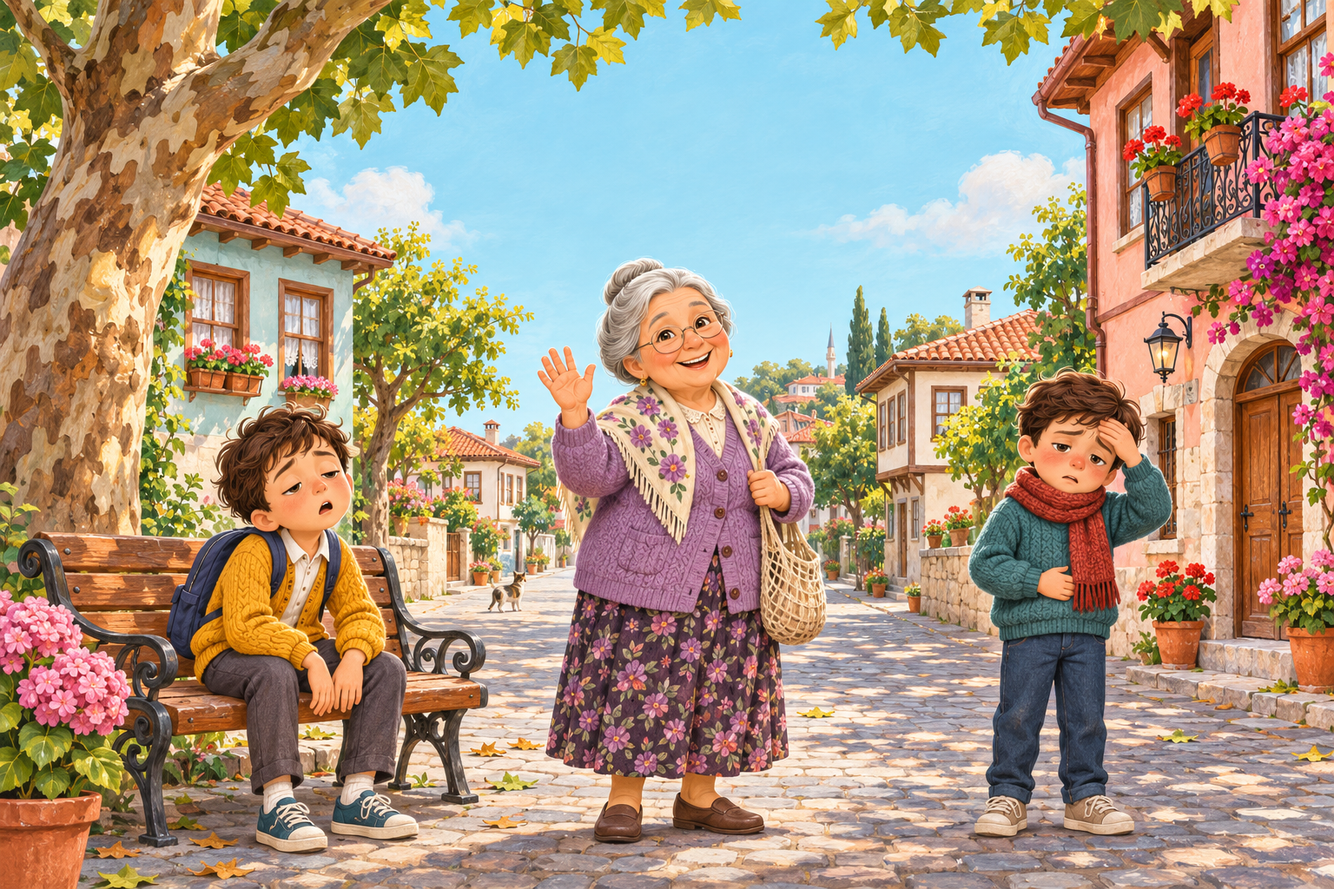
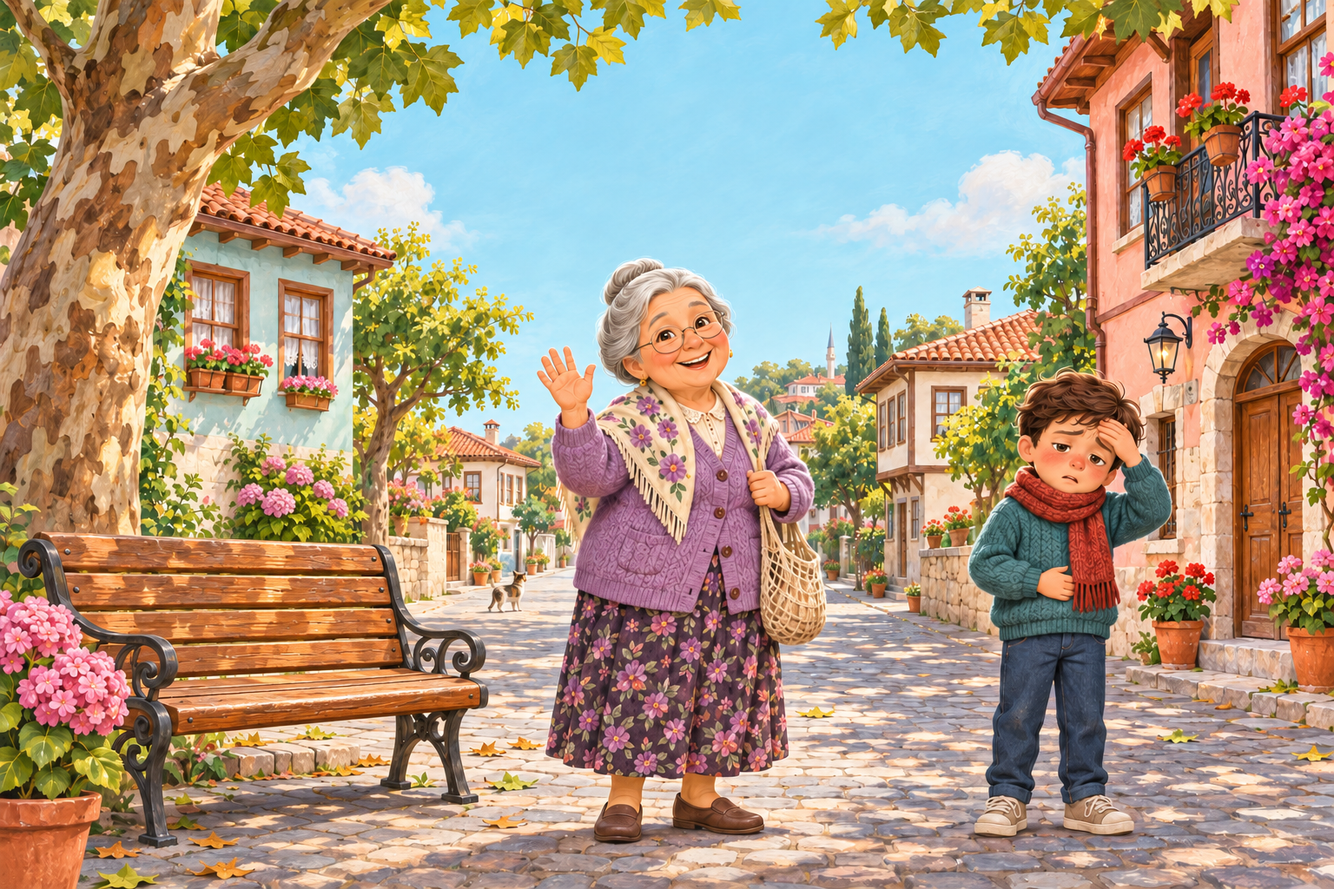
baslangıctaki hatalar giderildi

diff --git a/preview/8.haftabaslangic/stil.css b/preview/8.haftabaslangic/stil.css
@@ -1,6 +1,20 @@
-:root{--ink:#234f48;--green:#24685c;--cream:#fcf8ed;--red:#d95e64}*{box-sizing:border-box}html,body{margin:0;width:100%;height:100%;overflow:hidden;overscroll-behavior:none}body{background:#e8eee4;color:var(--ink);font-family:Arial,Helvetica,sans-serif}.app{position:absolute;width:1440px;height:900px;left:50%;top:50%;transform:translate(-50%,-50%) scale(var(--fit,1));transform-origin:center;background:var(--cream);display:flex;flex-direction:column;overflow:hidden;border-radius:24px;box-shadow:0 16px 80px #244d371a}button{font:inherit;cursor:pointer;-webkit-tap-highlight-color:transparent}button:disabled{cursor:default}button:focus-visible{outline:4px solid #2487b0;outline-offset:4px}header{height:86px;flex-shrink:0;padding:14px 34px;display:flex;align-items:center;gap:27px;border-bottom:1px solid #e5e4d7}.logo{width:185px;height:54px;object-fit:contain;object-position:left center}.brand{font-family:Georgia,serif;font-size:25px;border-left:1px solid #d6d9c9;padding-left:27px}.tools{margin-left:auto;display:flex;gap:10px}.tools button{min-height:44px;border:1px solid #cdd8c8;border-radius:23px;padding:10px 18px;background:#fffdf5;color:var(--ink);font-size:16px}.tools button:hover{background:#e9f0e2}main{padding:22px 34px 12px;flex:1;min-height:0;display:flex;flex-direction:column}.heading{height:126px;flex-shrink:0;display:flex;align-items:flex-start;justify-content:space-between;padding:4px 5px 18px}.eyebrow{font-size:11px;font-weight:700;letter-spacing:2px;margin:0 0 10px;color:#4d7160}h1{font-family:Georgia,'Times New Roman',serif;font-weight:500;font-size:44px;letter-spacing:-1px;margin:0 0 9px}.subtitle{font-size:18px;margin:0;color:#536b5f}.progress{text-align:center;min-width:162px;padding-top:4px}#hearts{display:flex;justify-content:center;gap:12px;font-size:43px;line-height:1.1;color:#b8c4b6}#hearts .lit{color:var(--red);animation:pop .5s}#count{display:block;font-size:14px;margin-top:9px}.game{flex:1;min-height:0;display:grid;grid-template-columns:minmax(0,1.65fr) minmax(0,1fr);border:1px solid #d9dfce;border-radius:25px;overflow:hidden;box-shadow:0 10px 30px #2549340c}.map{position:relative;min-width:0;background:#dbead4 url('gorseller/mahalle.png') center center/cover}.map::after{content:'';position:absolute;left:0;right:0;bottom:0;height:20%;background:linear-gradient(transparent,#3c44322b);pointer-events:none}.map-title{position:absolute;left:20px;top:20px;background:#fff8e7ed;border-radius:20px;padding:9px 14px;font-size:11px;letter-spacing:2px;font-weight:bold}.big-heart{position:absolute;left:50%;top:15px;transform:translateX(-50%);font-size:90px;line-height:1;color:#a8b8a9;filter:drop-shadow(0 3px 0 #fff8);transition:color .8s}.big-heart.lit{color:var(--red);animation:beat 1.5s 3}.heart-caption{position:absolute;top:109px;left:50%;transform:translateX(-50%);white-space:nowrap;background:#fff9e8ed;font-size:12px;border-radius:15px;padding:6px 11px}.stops{position:absolute;inset:29% 3% 2%;z-index:1;display:flex;gap:1%;justify-content:space-between}.person{width:31%;position:relative;display:flex;flex-direction:column;align-items:center;justify-content:flex-end;border:3px solid transparent;border-radius:100px 100px 20px 20px;background:transparent;padding:0 5px 0;color:var(--ink)}.person.current{border-color:#fff4a5b3;box-shadow:0 0 0 1px #b9953a33,inset 0 -40px 40px #fff2a120}.person:not(:disabled):hover{background:#fffad41a;border-color:#ffef9c}.person:focus-visible{outline-offset:-4px}.pin{position:absolute;left:6%;top:18%;display:grid;place-items:center;width:35px;height:35px;border:3px solid #fff9e6;border-radius:50%;background:#6b8774;color:white;font-size:15px;font-weight:bold;box-shadow:0 3px 9px #233a3d25}.person.current .pin{background:#b87732}.person.done .pin{background:var(--green)}.person:nth-child(2) .pin{top:1%}.name{width:100%;border-radius:13px 13px 0 0;padding:9px 6px 5px;background:#fffcedf5;font-size:15px;font-weight:700;white-space:nowrap;box-shadow:0 -3px 14px #25372110}.state{width:100%;border-radius:0 0 13px 13px;padding:0 6px 9px;background:#fffcedf5;font-size:12px;color:#67765f}.current .state{color:#9a551c;font-weight:700}.panel{min-width:0;min-height:0;background:#fffdf5;padding:20px 27px;display:flex;flex-direction:column}.panel-top{height:29px;flex-shrink:0;display:flex;align-items:center;justify-content:space-between;font-size:11px;font-weight:700;letter-spacing:1.6px;color:#607661;margin-bottom:14px}.panel-top>span:last-child{font-size:28px;color:#91b49a}#content{min-height:0}h2{font:500 30px/1.2 Georgia,serif;margin:0 0 16px;outline:none}.intro-icon{font-size:68px;color:var(--red);margin:32px 0 18px;line-height:1}.intro-text{font-size:24px;line-height:1.5;margin:0 0 28px}.small-hint{font-size:16px;color:#657262;line-height:1.6;margin-top:22px}.primary{width:100%;border:0;border-radius:14px;padding:15px 18px;min-height:54px;color:#fff;background:var(--green);font-size:20px;font-weight:700}.primary:hover{background:#184f46}.bubble{padding:16px 18px;background:#eef2e6;border-radius:4px 20px 20px;margin:0 0 17px}.speaker{display:block;font-size:13px;font-weight:700;color:#5b705c;margin-bottom:8px}.line{font-size:25px;line-height:1.4;white-space:pre-line;margin:0}.prompt{font-size:16px;font-weight:700;margin:0 0 11px}.options{display:grid;gap:10px}.choice{display:flex;align-items:center;gap:11px;text-align:left;color:var(--ink);background:#fff;border:2px solid #c8d6c1;border-radius:13px;padding:13px 14px;min-height:61px;font-size:21px;line-height:1.35}.choice:hover{border-color:#4f8b6f;background:#f3f7eb}.letter{width:27px;height:27px;flex-shrink:0;display:grid;place-items:center;border-radius:50%;font-size:13px;background:#edf2e5}.choice.wrong{border-color:#b7894c;background:#fff2dd}.choice.correct{border-color:#3d8163;background:#e8f3e1}.choice:disabled:not(.correct){display:none}.feedback{font-size:17px;line-height:1.4;margin:13px 0 0;min-height:24px;color:#805a2d}.feedback.success{color:#2b7052}.success-heart{font-size:76px;line-height:1;margin:19px 0;color:var(--red);animation:pop .5s}.recap{display:grid;gap:8px;margin:16px 0 22px}.recap span{padding:11px 15px;border-radius:11px;background:#eef2e6;font-size:20px}#nextArea .primary{margin-top:16px}footer{display:flex;align-items:end;justify-content:space-between;height:32px;flex-shrink:0;font-size:12px;color:#63755f;padding:0 4px}dialog{border:1px solid #cfdcc9;border-radius:24px;max-width:520px;width:90%;padding:35px;color:var(--ink);background:#fffdf4;box-shadow:0 20px 70px #21463230}dialog::backdrop{background:#153d3566}dialog p{font-size:22px;line-height:1.5}.close{position:absolute;right:12px;top:10px;width:44px;height:44px;background:none;border:0;color:var(--ink);font-size:32px}.help-note{background:#eef2e7;padding:15px;border-radius:13px}.dialog-actions{display:flex;gap:12px}.dialog-actions button{flex:1;border:1px solid #c0d0b9;border-radius:13px;padding:13px;font-size:20px}.dialog-actions .primary{width:auto}.portrait header{height:95px;padding:14px 24px;gap:18px}.portrait .logo{width:167px}.portrait .brand{font-size:21px;padding-left:18px}.portrait .tools{gap:6px}.portrait .tools button{font-size:17px;padding:9px 11px}.portrait main{padding:20px 24px 12px}.portrait .heading{height:130px}.portrait h1{font-size:45px}.portrait .eyebrow{font-size:12px;letter-spacing:1.3px}.portrait .subtitle{font-size:23px}.portrait .game{grid-template-columns:1fr;grid-template-rows:470px minmax(0,1fr);border-radius:25px}.portrait .map{background-size:100% 100%}.portrait .map-title{font-size:12px;top:14px;left:14px}.portrait .big-heart{font-size:64px;top:7px}.portrait .heart-caption{top:74px;font-size:12px}.portrait .stops{inset:28% 3% 2%}.portrait .name{font-size:22px;padding:9px 3px 3px}.portrait .state{font-size:17px;padding-bottom:7px}.portrait .pin{width:36px;height:36px;font-size:18px}.portrait .panel{padding:17px 26px}.portrait .panel-top{font-size:14px;margin-bottom:8px;height:23px}.portrait h2{font-size:34px;margin-bottom:10px}.portrait .intro-icon{font-size:64px;margin:15px 0}.portrait .intro-text{font-size:29px;margin-bottom:18px}.portrait .small-hint{font-size:23px;margin-top:17px}.portrait .bubble{padding:13px 17px;margin-bottom:12px}.portrait .speaker{font-size:19px;margin-bottom:4px}.portrait .line{font-size:30px;line-height:1.3}.portrait .prompt{font-size:21px;margin-bottom:9px}.portrait .choice{font-size:28px;min-height:64px;padding:12px 16px}.portrait .letter{font-size:18px;width:29px;height:29px}.portrait .feedback{font-size:23px;margin-top:10px;min-height:28px}.portrait .primary{font-size:26px;min-height:62px;padding:13px}.portrait #nextArea .primary{margin-top:12px}.portrait .success-heart{font-size:65px;margin:12px 0}.portrait .recap{gap:7px;margin:11px 0 15px}.portrait .recap span{font-size:25px;padding:9px 13px}.portrait footer{font-size:16px;height:31px}.portrait dialog{max-width:620px;padding:35px}.portrait dialog p{font-size:27px}.portrait .dialog-actions button{font-size:25px}@keyframes pop{50%{transform:scale(1.15)}}@keyframes beat{50%{scale:1.09}}@media(prefers-reduced-motion:reduce){*,*::before,*::after{animation:none!important;transition:none!important}}
-/* Word building: the illustration and sound assets stay unchanged. */
+:root{--ink:#234f48;--green:#24685c;--cream:#fcf8ed;--red:#d95e64}*{box-sizing:border-box}html,body{margin:0;width:100%;height:100%;overflow:hidden;overscroll-behavior:none}body{background:#e8eee4;color:var(--ink);font-family:Arial,Helvetica,sans-serif}.app{position:absolute;width:1440px;height:900px;left:50%;top:50%;transform:translate(-50%,-50%) scale(var(--fit,1));transform-origin:center;background:var(--cream);display:flex;flex-direction:column;overflow:hidden;border-radius:24px;box-shadow:0 16px 80px #244d371a}button{font:inherit;cursor:pointer;-webkit-tap-highlight-color:transparent}button:disabled{cursor:default}button:focus-visible{outline:4px solid #2487b0;outline-offset:4px}header{height:86px;flex-shrink:0;padding:14px 34px;display:flex;align-items:center;gap:27px;border-bottom:1px solid #e5e4d7}.logo{width:185px;height:54px;object-fit:contain;object-position:left center}.brand{font-family:Georgia,serif;font-size:25px;border-left:1px solid #d6d9c9;padding-left:27px}.tools{margin-left:auto;display:flex;gap:10px}.tools button{min-height:44px;border:1px solid #cdd8c8;border-radius:23px;padding:10px 18px;background:#fffdf5;color:var(--ink);font-size:16px}.tools button:hover{background:#e9f0e2}main{padding:22px 34px 12px;flex:1;min-height:0;display:flex;flex-direction:column}.heading{height:126px;flex-shrink:0;display:flex;align-items:flex-start;justify-content:space-between;padding:4px 5px 18px}.eyebrow{font-size:11px;font-weight:700;letter-spacing:2px;margin:0 0 10px;color:#4d7160}h1{font-family:Georgia,'Times New Roman',serif;font-weight:500;font-size:44px;letter-spacing:-1px;margin:0 0 9px}.subtitle{font-size:18px;margin:0;color:#536b5f}.progress{text-align:center;min-width:162px;padding-top:4px}#hearts{display:flex;justify-content:center;gap:12px;font-size:43px;line-height:1.1;color:#b8c4b6}#hearts .lit{color:var(--red);animation:pop .5s}#count{display:block;font-size:14px;margin-top:9px}.game{flex:1;min-height:0;display:grid;grid-template-columns:minmax(0,1.65fr) minmax(0,1fr);border:1px solid #d9dfce;border-radius:25px;overflow:hidden;box-shadow:0 10px 30px #2549340c}.map{position:relative;min-width:0;background:#dbead4 url('gorseller/mahalle.png') center center/cover}.map::after{content:'';position:absolute;left:0;right:0;bottom:0;height:20%;background:linear-gradient(transparent,#3c44322b);pointer-events:none}.map-title{position:absolute;left:20px;top:20px;background:#fff8e7ed;border-radius:20px;padding:9px 14px;font-size:11px;letter-spacing:2px;font-weight:bold}.big-heart{position:absolute;left:50%;top:15px;transform:translateX(-50%);font-size:90px;line-height:1;color:#a8b8a9;filter:drop-shadow(0 3px 0 #fff8);transition:color .8s}.big-heart.lit{color:var(--red);animation:beat 1.5s 3}.heart-caption{position:absolute;top:109px;left:50%;transform:translateX(-50%);white-space:nowrap;background:#fff9e8ed;font-size:12px;border-radius:15px;padding:6px 11px}.stops{position:absolute;inset:29% 3% 2%;z-index:1;display:flex;gap:1%;justify-content:space-between}.person{width:31%;position:relative;display:flex;flex-direction:column;align-items:center;justify-content:flex-end;border:3px solid transparent;border-radius:100px 100px 20px 20px;background:transparent;padding:0 5px 0;color:var(--ink)}.person.current{border-color:#fff4a5b3;box-shadow:0 0 0 1px #b9953a33,inset 0 -40px 40px #fff2a120}.person:not(:disabled):hover{background:#fffad41a;border-color:#ffef9c}.person:focus-visible{outline-offset:-4px}.pin{position:absolute;left:6%;top:18%;display:grid;place-items:center;width:35px;height:35px;border:3px solid #fff9e6;border-radius:50%;background:#6b8774;color:white;font-size:15px;font-weight:bold;box-shadow:0 3px 9px #233a3d25}.person.current .pin{background:#b87732}.person.done .pin{background:var(--green)}.person:nth-child(1) .pin{top:1%}.name{width:100%;border-radius:13px 13px 0 0;padding:9px 6px 5px;background:#fffcedf5;font-size:15px;font-weight:700;white-space:nowrap;box-shadow:0 -3px 14px #25372110}.state{width:100%;border-radius:0 0 13px 13px;padding:0 6px 9px;background:#fffcedf5;font-size:12px;color:#67765f}.current .state{color:#9a551c;font-weight:700}.panel{min-width:0;min-height:0;background:#fffdf5;padding:20px 27px;display:flex;flex-direction:column}.panel-top{height:29px;flex-shrink:0;display:flex;align-items:center;justify-content:space-between;font-size:11px;font-weight:700;letter-spacing:1.6px;color:#607661;margin-bottom:14px}.panel-top>span:last-child{font-size:28px;color:#91b49a}#content{min-height:0}h2{font:500 30px/1.2 Georgia,serif;margin:0 0 16px;outline:none}.intro-icon{font-size:68px;color:var(--red);margin:32px 0 18px;line-height:1}.intro-text{font-size:24px;line-height:1.5;margin:0 0 28px}.small-hint{font-size:16px;color:#657262;line-height:1.6;margin-top:22px}.primary{width:100%;border:0;border-radius:14px;padding:15px 18px;min-height:54px;color:#fff;background:var(--green);font-size:20px;font-weight:700}.primary:hover{background:#184f46}.bubble{padding:16px 18px;background:#eef2e6;border-radius:4px 20px 20px;margin:0 0 17px}.speaker{display:block;font-size:13px;font-weight:700;color:#5b705c;margin-bottom:8px}.line{font-size:25px;line-height:1.4;white-space:pre-line;margin:0}.prompt{font-size:16px;font-weight:700;margin:0 0 11px}.options{display:grid;gap:10px}.choice{display:flex;align-items:center;gap:11px;text-align:left;color:var(--ink);background:#fff;border:2px solid #c8d6c1;border-radius:13px;padding:13px 14px;min-height:61px;font-size:21px;line-height:1.35}.choice:hover{border-color:#4f8b6f;background:#f3f7eb}.letter{width:27px;height:27px;flex-shrink:0;display:grid;place-items:center;border-radius:50%;font-size:13px;background:#edf2e5}.choice.wrong{border-color:#b7894c;background:#fff2dd}.choice.correct{border-color:#3d8163;background:#e8f3e1}.choice:disabled:not(.correct){display:none}.feedback{font-size:17px;line-height:1.4;margin:13px 0 0;min-height:24px;color:#805a2d}.feedback.success{color:#2b7052}.success-heart{font-size:76px;line-height:1;margin:19px 0;color:var(--red);animation:pop .5s}.recap{display:grid;gap:8px;margin:16px 0 22px}.recap span{padding:11px 15px;border-radius:11px;background:#eef2e6;font-size:20px}#nextArea .primary{margin-top:16px}footer{display:flex;align-items:end;justify-content:space-between;height:32px;flex-shrink:0;font-size:12px;color:#63755f;padding:0 4px}dialog{border:1px solid #cfdcc9;border-radius:24px;max-width:520px;width:90%;padding:35px;color:var(--ink);background:#fffdf4;box-shadow:0 20px 70px #21463230}dialog::backdrop{background:#153d3566}dialog p{font-size:22px;line-height:1.5}.close{position:absolute;right:12px;top:10px;width:44px;height:44px;background:none;border:0;color:var(--ink);font-size:32px}.help-note{background:#eef2e7;padding:15px;border-radius:13px}.dialog-actions{display:flex;gap:12px}.dialog-actions button{flex:1;border:1px solid #c0d0b9;border-radius:13px;padding:13px;font-size:20px}.dialog-actions .primary{width:auto}.portrait header{height:95px;padding:14px 24px;gap:18px}.portrait .logo{width:167px}.portrait .brand{font-size:21px;padding-left:18px}.portrait .tools{gap:6px}.portrait .tools button{font-size:17px;padding:9px 11px}.portrait main{padding:20px 24px 12px}.portrait .heading{height:130px}.portrait h1{font-size:45px}.portrait .eyebrow{font-size:12px;letter-spacing:1.3px}.portrait .subtitle{font-size:23px}.portrait .game{grid-template-columns:1fr;grid-template-rows:470px minmax(0,1fr);border-radius:25px}.portrait .map{background-size:100% 100%}.portrait .map-title{font-size:12px;top:14px;left:14px}.portrait .big-heart{font-size:64px;top:7px}.portrait .heart-caption{top:74px;font-size:12px}.portrait .stops{inset:28% 3% 2%}.portrait .name{font-size:22px;padding:9px 3px 3px}.portrait .state{font-size:17px;padding-bottom:7px}.portrait .pin{width:36px;height:36px;font-size:18px}.portrait .panel{padding:17px 26px}.portrait .panel-top{font-size:14px;margin-bottom:8px;height:23px}.portrait h2{font-size:34px;margin-bottom:10px}.portrait .intro-icon{font-size:64px;margin:15px 0}.portrait .intro-text{font-size:29px;margin-bottom:18px}.portrait .small-hint{font-size:23px;margin-top:17px}.portrait .bubble{padding:13px 17px;margin-bottom:12px}.portrait .speaker{font-size:19px;margin-bottom:4px}.portrait .line{font-size:30px;line-height:1.3}.portrait .prompt{font-size:21px;margin-bottom:9px}.portrait .choice{font-size:28px;min-height:64px;padding:12px 16px}.portrait .letter{font-size:18px;width:29px;height:29px}.portrait .feedback{font-size:23px;margin-top:10px;min-height:28px}.portrait .primary{font-size:26px;min-height:62px;padding:13px}.portrait #nextArea .primary{margin-top:12px}.portrait .success-heart{font-size:65px;margin:12px 0}.portrait .recap{gap:7px;margin:11px 0 15px}.portrait .recap span{font-size:25px;padding:9px 13px}.portrait footer{font-size:16px;height:31px}.portrait dialog{max-width:620px;padding:35px}.portrait dialog p{font-size:27px}.portrait .dialog-actions button{font-size:25px}@keyframes pop{50%{transform:scale(1.15)}}@keyframes beat{50%{scale:1.09}}@media(prefers-reduced-motion:reduce){*,*::before,*::after{animation:none!important;transition:none!important}}
+/* Word building */
 .panel-top{margin-bottom:9px}.panel h2{font-size:28px;margin-bottom:12px}.panel .bubble{padding:12px 16px;margin-bottom:13px}.panel .speaker{margin-bottom:5px}.panel .line{font-size:23px}.sentence{display:flex;align-items:center;align-content:center;flex-wrap:wrap;gap:7px;min-height:63px;padding:10px;background:#f2f3e9;border:2px dashed #b6c9aa;border-radius:14px;margin-bottom:13px}.word-slot{min-height:42px;display:flex;align-items:center;justify-content:center;border-radius:10px}.word-slot.empty{min-width:48px;border-bottom:2px solid #b8c9a9;background:#e5eada;color:#788e6d;font-size:14px}.word-bank{display:flex;flex-wrap:wrap;align-content:flex-start;gap:8px;min-height:57px;padding:4px 0 8px}.word{touch-action:none;user-select:none;-webkit-user-select:none;cursor:grab;color:#245228;background:#dbefb5;border:2px solid #a9cc76;border-bottom:5px solid #87b657;border-radius:12px;min-height:43px;padding:7px 12px;font-size:20px;font-weight:700;line-height:1.2;white-space:nowrap;transition:background .12s}.word:hover{background:#cfeba1}.word:active{cursor:grabbing}.word-slot .word{background:#c8e99a}.drag-over{outline:3px solid #5d9f37;outline-offset:2px;background:#e6f4d5!important}.word.drag-ghost{position:fixed;z-index:2147483647;pointer-events:none;opacity:.96;box-shadow:0 7px 20px #1f442a30;transform:rotate(-3deg);font-size:20px}.builder-actions{display:flex;gap:10px;margin-top:12px}.builder-actions .primary{flex:1;font-size:19px;min-height:49px;padding:12px}.clear{border:1px solid #c3cfb8;border-radius:13px;background:#f1f3e8;color:#4f6e46;padding:10px 14px;font-size:16px}.clear:disabled{opacity:.45}.panel .feedback{margin-top:8px;font-size:16px;min-height:23px}.answer-label{font-size:12px;font-weight:700;margin:17px 0 8px;color:#5b705c}.correct-sentence{font-size:24px;line-height:1.5;background:#e0f1ce;border:2px solid #a5c685;border-radius:14px;padding:14px 17px}.panel .reply{margin-top:18px;background:#edf2e7}.portrait .panel-top{margin-bottom:7px}.portrait .panel h2{font-size:32px;margin-bottom:9px}.portrait .panel .bubble{padding:10px 15px;margin-bottom:11px}.portrait .panel .speaker{font-size:18px;margin-bottom:4px}.portrait .panel .line{font-size:28px;line-height:1.3}.portrait .prompt{font-size:22px;margin-bottom:9px}.portrait .word{font-size:26px;min-height:53px;padding:8px 14px}.portrait .word-slot{min-height:53px}.portrait .word-slot.empty{min-width:56px;font-size:18px}.portrait .sentence{min-height:74px;padding:9px;gap:8px;margin-bottom:11px}.portrait .word-bank{min-height:62px;gap:9px;padding-bottom:5px}.portrait .builder-actions{margin-top:9px}.portrait .builder-actions .primary{font-size:25px;min-height:57px;padding:12px}.portrait .clear{font-size:22px;padding:10px 18px}.portrait .panel .feedback{font-size:21px;line-height:1.35;min-height:27px;margin-top:8px}.portrait .correct-sentence{font-size:30px;padding:12px 16px}.portrait .answer-label{font-size:18px;margin:10px 0 7px}.portrait .panel .reply{margin-top:13px}.portrait #nextArea .primary{margin-top:13px}
 
 /* Keep retry hints and the word bank visible within the fixed game frame. */
 .panel{padding-top:18px;padding-bottom:18px}.panel-top{height:25px;margin-bottom:6px}.sentence{padding:8px;margin-bottom:10px}.portrait .panel{padding-top:17px;padding-bottom:17px}.portrait .panel-top{height:23px;margin-bottom:7px}
+
+/* Two conversations: labels follow the remaining characters. */
+.heading{height:145px}.subtitle{max-width:1030px;line-height:1.4;font-size:21px}
+.stops{inset:29% 3% 2%;display:block;pointer-events:none}
+.person{position:absolute;top:0;bottom:0;pointer-events:auto;width:31%}
+#stop0{left:34%}#stop1{right:0}
+.name{font-size:25px;padding:11px 6px 6px}.state{font-size:19px;padding-bottom:11px}
+.pin{width:44px;height:44px;font-size:22px}
+.map-title{font-size:17px;letter-spacing:1px}.heart-caption{font-size:18px;top:112px}
+.intro-text{font-size:23px;line-height:1.4}.intro-icon{margin-top:16px}
+.portrait .heading{height:175px}.portrait .subtitle{font-size:23px;max-width:530px}
+.portrait .name{font-size:28px}.portrait .state{font-size:22px}
+.portrait .map-title{font-size:18px}.portrait .heart-caption{font-size:18px;top:78px}
+.portrait .intro-text{font-size:28px;line-height:1.4}

diff --git a/preview/8.haftabaslangic/oyun.js b/preview/8.haftabaslangic/oyun.js
@@ -2,10 +2,8 @@
 const $=id=>document.getElementById(id);
 let completed=0, active=-1, step=0, sound=true, currentAudio=null, answered=false;
 let tiles=[],slots=[],gesture=null, suppressClick=false;
-const names=['Arkadaş','Ayşe teyze','Arkadaş'];
+const names=['Ayşe teyze','Arkadaş'];
 const talks=[
- [{speaker:'Soru',text:'Arkadaşın yorgun görünüyor. Ona ne dersin?',words:['Nasılsın?'],hint:'Hâlini sor: “Nasılsın?”'},
-  {speaker:'Arkadaşın',text:'Çok yorgunum.',words:['Yapabileceğim','bir','şey','var','mı?'],hint:'“Yapabileceğim” ile başla.',reply:'Dinleniyorum. Teşekkür ederim.'}],
  [{speaker:'Ayşe teyze',text:'Merhaba evladım, nasılsın?',words:['İyiyim,','teşekkür','ederim.','Siz','nasılsınız?'],hint:'“İyiyim,” ile başla. Sonra “Siz nasılsınız?” de.'},
   {speaker:'Ayşe teyze',text:'Ben de iyiyim. Ailen nasıl?',words:['Ailem','iyi,','teşekkür','ederim.'],hint:'“Ailem iyi,” ile başla.'}],
  [{speaker:'Soru',text:'Arkadaşın hasta görünüyor. Ona ne dersin?',words:['Nasılsın?'],hint:'Hâlini sor: “Nasılsın?”'},
@@ -17,12 +15,12 @@ function focusPanel(){const e=$('panelTitle');if(e){e.tabIndex=-1;e.focus({preve
 function fitScreen(){const portrait=window.innerWidth<window.innerHeight,w=portrait?760:1440,h=portrait?1460:900;const app=$('app');app.classList.toggle('portrait',portrait);app.style.width=w+'px';app.style.height=h+'px';app.style.setProperty('--fit',Math.min(window.innerWidth/w,window.innerHeight/h));}
 window.addEventListener('resize',fitScreen);fitScreen();
 function cancelGesture(){if(gesture?.ghost)gesture.ghost.remove();gesture=null;document.querySelectorAll('.drag-over').forEach(e=>e.classList.remove('drag-over'));}
-function update(){document.querySelectorAll('#hearts span').forEach((h,i)=>h.classList.toggle('lit',i<completed));$('count').textContent=completed+' / 3 kalp';document.querySelectorAll('.person').forEach((p,i)=>{p.disabled=i!==completed||active>=0;p.classList.toggle('current',i===completed);p.classList.toggle('done',i<completed);p.querySelector('.pin').textContent=i<completed?'✓':i+1;p.querySelector('.state').textContent=i<completed?'Tamamlandı ✓':i===completed?'Konuş →':'Sırada';});$('bigHeart').classList.toggle('lit',completed===3);}
-function intro(){cancelGesture();active=-1;step=0;answered=false;$('stepLabel').textContent='HAZIR MISIN?';$('content').innerHTML='<div class="intro-icon" aria-hidden="true">♥</div><h2 id="panelTitle">Mahallene hoş geldin!</h2><p class="intro-text">Kelimeleri sürükle.<br>Boş yerlere doğru sırayla koy.</p><button class="primary" id="start">Başla →</button>';$('start').onclick=()=>openStop(completed);$('instruction').textContent='Arkadaşına tıkla. Konuşmaya başla.';update();}
-function openStop(i){if(i!==completed||active>=0||completed>=3)return;active=i;step=0;update();renderStep();}
+function update(){document.querySelectorAll('#hearts span').forEach((h,i)=>h.classList.toggle('lit',i<completed));$('count').textContent=completed+' / '+talks.length+' kalp';document.querySelectorAll('.person').forEach((p,i)=>{p.disabled=i!==completed||active>=0;p.classList.toggle('current',i===completed);p.classList.toggle('done',i<completed);p.querySelector('.pin').textContent=i<completed?'✓':i+1;p.querySelector('.state').textContent=i<completed?'Tamamlandı ✓':i===completed?'Konuş →':'Sırada';});$('bigHeart').classList.toggle('lit',completed===talks.length);}
+function intro(){cancelGesture();active=-1;step=0;answered=false;$('stepLabel').textContent='HAZIR MISIN?';$('content').innerHTML='<div class="intro-icon" aria-hidden="true">♥</div><h2 id="panelTitle">Mahallene hoş geldin!</h2><p class="intro-text">Diyalogları okuyalım ve doğru bir şekilde tamamlayalım.</p><button class="primary" id="start">Ayşe teyze ile başla →</button>';$('start').onclick=()=>openStop(completed);$('instruction').textContent='Büyüklerimize “siz”, arkadaşlarımıza “sen” diye hitap ederiz. Diyalogları okuyalım ve doğru bir şekilde tamamlayalım.';update();}
+function openStop(i){if(i!==completed||active>=0||completed>=talks.length)return;active=i;step=0;update();renderStep();}
 function shuffled(words){const a=words.map((word,id)=>({word,id}));for(let i=a.length-1;i>0;i--){const j=Math.floor(Math.random()*(i+1));[a[i],a[j]]=[a[j],a[i]];}if(a.every((x,i)=>x.id===i))a.push(a.shift());return a;}
-function renderStep(){cancelGesture();answered=false;const t=talks[active][step];tiles=shuffled(t.words);slots=Array(t.words.length).fill(null);$('stepLabel').textContent=`${active+1}. DURAK · ${step+1} / ${talks[active].length}`;$('instruction').textContent='Kelimeleri sürükle. Boş yerlere doğru sırayla koy.';
- $('content').innerHTML=`<h2 id="panelTitle">${names[active]}</h2><div class="bubble"><span class="speaker"></span><p class="line"></p></div><div id="builder"><p class="prompt">Sen: Kelimeleri doğru sıraya koy.</p><div class="sentence" id="sentence" data-zone="sentence" role="group" aria-label="Cevabın"></div><div class="word-bank" id="bank" data-zone="bank" role="group" aria-label="Yeşil kelimeler"></div><p class="feedback" id="feedback" role="status" aria-live="polite"></p><div class="builder-actions"><button id="clear" class="clear">↶ Temizle</button><button id="check" class="primary">Kontrol et ✓</button></div></div><div id="nextArea"></div>`;
+function renderStep(){cancelGesture();answered=false;const t=talks[active][step];tiles=shuffled(t.words);slots=Array(t.words.length).fill(null);$('stepLabel').textContent=`${active+1}. DURAK · ${step+1} / ${talks[active].length}`;$('instruction').textContent='Büyüklerimize “siz”, arkadaşlarımıza “sen” diye hitap ederiz. Diyalogları okuyalım ve doğru bir şekilde tamamlayalım.';
+ $('content').innerHTML=`<h2 id="panelTitle">${names[active]}</h2><div class="bubble"><span class="speaker"></span><p class="line"></p></div><div id="builder"><p class="prompt">Sen: Yeşil kelimelerle cevabını oluştur.</p><div class="sentence" id="sentence" data-zone="sentence" role="group" aria-label="Cevabın"></div><div class="word-bank" id="bank" data-zone="bank" role="group" aria-label="Yeşil kelimeler"></div><p class="feedback" id="feedback" role="status" aria-live="polite"></p><div class="builder-actions"><button id="clear" class="clear">↶ Temizle</button><button id="check" class="primary">Kontrol et ✓</button></div></div><div id="nextArea"></div>`;
  $('content').querySelector('.speaker').textContent=t.speaker;$('content').querySelector('.line').textContent=t.text;$('check').onclick=checkAnswer;$('clear').onclick=()=>{if(answered)return;slots.fill(null);paintWords();feedback('Yeniden kurabilirsin.');};paintWords();focusPanel();}
 function feedback(text,success=false){$('feedback').className='feedback'+(success?' success':'');$('feedback').textContent=text;}
 function token(id,position){const tile=tiles.find(t=>t.id===id),b=document.createElement('button');b.type='button';b.className='word';b.textContent=tile.word;b.dataset.tile=String(id);b.setAttribute('aria-label',tile.word+(position===null?' kelimesini cevaba ekle':' kelimesini geri al'));b.onclick=()=>{if(suppressClick){suppressClick=false;return;}if(answered)return;if(position===null){const i=slots.indexOf(null);if(i<0){feedback('Önce bir kelimeyi geri al.');return;}slots[i]=id;}else slots[position]=null;paintWords();feedback('');};b.onpointerdown=e=>beginDrag(e,id,b);return b;}
@@ -37,7 +35,7 @@ document.addEventListener('keydown',e=>{if(e.key==='Escape')cancelGesture();});
 function checkAnswer(){if(answered)return;const t=talks[active][step];if(slots.includes(null)){feedback('Boş yerleri tamamla.');return;}const words=slots.map(id=>tiles.find(x=>x.id===id).word);if(!words.every((w,i)=>w===t.words[i])){feedback('Bir daha dene. '+t.hint);return;}answered=true;cancelGesture();fx('dogru');$('builder').innerHTML='<div class="answer-label">SEN</div><div class="correct-sentence"></div><p class="feedback success" role="status">✓ Harika! Cümle tamam.</p>';$('builder').querySelector('.correct-sentence').textContent=words.join(' ');
  if(t.reply){const reply=document.createElement('div');reply.className='reply bubble';const who=document.createElement('span');who.className='speaker';who.textContent='Arkadaşın';const line=document.createElement('p');line.className='line';line.textContent=t.reply;reply.append(who,line);$('builder').append(reply);}
  $('nextArea').innerHTML='<button class="primary" id="next">Devam →</button>';$('next').onclick=()=>{if(!answered)return;if(step<talks[active].length-1){step++;renderStep();}else finishStop();};$('next').focus({preventScroll:true});}
-function finishStop(){if(active<0)return;completed++;active=-1;answered=false;update();fx(completed===3?'tamam':'dogru');$('stepLabel').textContent=completed===3?'GÖREV TAMAMLANDI':'HARİKA!';$('content').innerHTML=completed===3?'<div class="success-heart" aria-hidden="true">♥</div><h2 id="panelTitle">Mahalle şimdi mutlu!</h2><p class="intro-text">Üç kalp yandı!</p><div class="recap"><span>Nasılsın?</span><span>Ailen nasıl?</span><span>Geçmiş olsun!</span></div><button class="primary" id="again">Tekrar oyna ↻</button>':`<div class="success-heart" aria-hidden="true">♥</div><h2 id="panelTitle">Bir kalp yandı!</h2><p class="intro-text">${completed===1?'Arkadaşınla konuştun.':'Ayşe teyze ile konuştun.'}</p><button class="primary" id="continue">${names[completed]} →</button>`;if(completed===3){$('instruction').textContent='Harika! Üç kişiyle konuştun.';$('again').onclick=restart;}else{$('instruction').textContent=names[completed]+' seni bekliyor.';$('continue').onclick=()=>openStop(completed);}focusPanel();}
+function finishStop(){if(active<0)return;completed++;active=-1;answered=false;update();fx(completed===talks.length?'tamam':'dogru');$('stepLabel').textContent=completed===talks.length?'GÖREV TAMAMLANDI':'HARİKA!';$('content').innerHTML=completed===talks.length?'<div class="success-heart" aria-hidden="true">♥</div><h2 id="panelTitle">Mahalle şimdi mutlu!</h2><p class="intro-text">İki kalp yandı!</p><div class="recap"><span>Nasılsın?</span><span>Ailen nasıl?</span><span>Geçmiş olsun!</span></div><button class="primary" id="again">Tekrar oyna ↻</button>':`<div class="success-heart" aria-hidden="true">♥</div><h2 id="panelTitle">Bir kalp yandı!</h2><p class="intro-text">${names[completed-1]==='Ayşe teyze'?'Ayşe teyzeyle konuştun.':'Arkadaşınla konuştun.'}</p><button class="primary" id="continue">${names[completed]} →</button>`;if(completed===talks.length){$('instruction').textContent='Harika! Arkadaşınla ve Ayşe teyzeyle konuştun.';$('again').onclick=restart;}else{$('instruction').textContent=names[completed]+' seni bekliyor.';$('continue').onclick=()=>openStop(completed);}focusPanel();}
 function restart(){completed=0;intro();focusPanel();}
 document.querySelectorAll('[data-stop]').forEach(b=>b.onclick=()=>openStop(Number(b.dataset.stop)));
 $('sound').onclick=()=>{sound=!sound;$('sound').setAttribute('aria-pressed',String(sound));$('sound').textContent=sound?'♫ Ses açık':'♫ Ses kapalı';$('sound').setAttribute('aria-label',sound?'Oyun seslerini kapat':'Oyun seslerini aç');if(!sound)stopAudio();else fx('tik');};

diff --git a/preview/8.haftabaslangic/index.html b/preview/8.haftabaslangic/index.html
@@ -1,13 +1,12 @@
 <!doctype html>
 <html lang="tr"><head><meta charset="utf-8"><meta name="viewport" content="width=device-width, initial-scale=1"><title>Bir Nasılsın, Bir Kalp!</title><link rel="stylesheet" href="stil.css"><script src="oyun.js" defer></script></head>
 <body><div class="app" id="app"><header><img class="logo" src="1.svg" alt="Materyal Fabrikası"><div class="tools"><button id="sound" aria-pressed="true" aria-label="Oyun seslerini kapat">♫ Ses açık</button><button id="help">? Yardım</button><button id="reset">↻ Yeniden</button></div></header>
-<main><div class="heading"><div><p class="eyebrow">Çevrim içi Türkçe ve Türk Kültürü</p><h1>Bir Nasılsın, Bir Kalp!</h1><p class="subtitle" id="instruction">Arkadaşına tıkla. Konuşmaya başla.</p></div><div class="progress"><div id="hearts" aria-hidden="true"><span>♥</span><span>♥</span><span>♥</span></div><strong id="count" role="status">0 / 3 kalp</strong></div></div>
+<main><div class="heading"><div><p class="eyebrow">Çevrim içi Türkçe ve Türk Kültürü</p><h1>Bir Nasılsın, Bir Kalp!</h1><p class="subtitle" id="instruction">Büyüklerimize “siz”, arkadaşlarımıza “sen” diye hitap ederiz. Diyalogları okuyalım ve doğru bir şekilde tamamlayalım.</p></div><div class="progress"><div id="hearts" aria-hidden="true"><span>♥</span><span>♥</span></div><strong id="count" role="status">0 / 2 kalp</strong></div></div>
 <section class="game" aria-label="Mahalle oyunu"><div class="map"><div class="map-title">BİZİM MAHALLE</div><div class="big-heart" id="bigHeart" aria-hidden="true">♥</div><div class="heart-caption">Mahallenin kalbi</div><div class="stops">
-<button class="person current" id="stop0" data-stop="0" aria-label="1. durak: Arkadaş"><span class="pin">1</span><span class="name">Arkadaş</span><span class="state">Konuş →</span></button>
-<button class="person" id="stop1" data-stop="1" disabled aria-label="2. durak: Ayşe teyze"><span class="pin">2</span><span class="name">Ayşe teyze</span><span class="state">Sırada</span></button>
-<button class="person" id="stop2" data-stop="2" disabled aria-label="3. durak: Arkadaş"><span class="pin">3</span><span class="name">Arkadaş</span><span class="state">Sırada</span></button>
+<button class="person current" id="stop0" data-stop="0" aria-label="1. durak: Ayşe teyze"><span class="pin">1</span><span class="name">Ayşe teyze</span><span class="state">Konuş →</span></button>
+<button class="person" id="stop1" data-stop="1" disabled aria-label="2. durak: Arkadaş"><span class="pin">2</span><span class="name">Arkadaş</span><span class="state">Sırada</span></button>
 </div></div><section class="panel" aria-labelledby="panelTitle" id="panel"><div class="panel-top"><span id="stepLabel">HAZIR MISIN?</span><span aria-hidden="true">✿</span></div><div id="content"></div></section></section>
-<footer><span>Sürükle. Tamamla. Bir kalp yak.</span><span>3 kişi · 3 güzel konuşma · 3 kalp</span></footer></main>
-<dialog id="helpDialog" aria-labelledby="helpTitle"><button class="close" aria-label="Kapat">×</button><h2 id="helpTitle">Nasıl oynanır?</h2><p>1. Kişiye tıkla.</p><p>2. Kelimeleri sürükle.</p><p>3. Boş yerlere doğru sırayla koy.</p><p class="help-note">Sonra Kontrol et düğmesine bas.<br>Yanlış mı? Bir daha dene.</p><button class="primary close-help">Tamam</button></dialog>
+<footer><span>Sürükle. Tamamla. Bir kalp yak.</span><span>2 kişi · 2 güzel konuşma · 2 kalp</span></footer></main>
+<dialog id="helpDialog" aria-labelledby="helpTitle"><button class="close" aria-label="Kapat">×</button><h2 id="helpTitle">Nasıl oynanır?</h2><p>Büyüklerimize “siz”, arkadaşlarımıza “sen” diye hitap ederiz. Diyalogları okuyalım ve doğru bir şekilde tamamlayalım.</p><p>1. Önce Ayşe teyzeye, sonra arkadaşına tıkla.</p><p>2. Yeşil kelimeleri boş kutulara doğru sırayla koy. Kelimelere tıklayabilir veya onları sürükleyebilirsin.</p><p>3. Kontrol et düğmesine bas. Doğru cevaptan sonra Devam düğmesiyle konuşmayı sürdür.</p><p class="help-note">Her konuşma bir kalp yakar. İki konuşmayı da tamamla!<br>Yanlış mı? Bir daha dene.</p><button class="primary close-help">Tamam</button></dialog>
 <dialog id="resetDialog" aria-labelledby="resetTitle"><h2 id="resetTitle">Yeniden başlayalım mı?</h2><p>Kalpler yeniden söner.</p><div class="dialog-actions"><button id="cancelReset">Devam et</button><button class="primary" id="confirmReset">Yeniden başla</button></div></dialog>
 </div></body></html>
